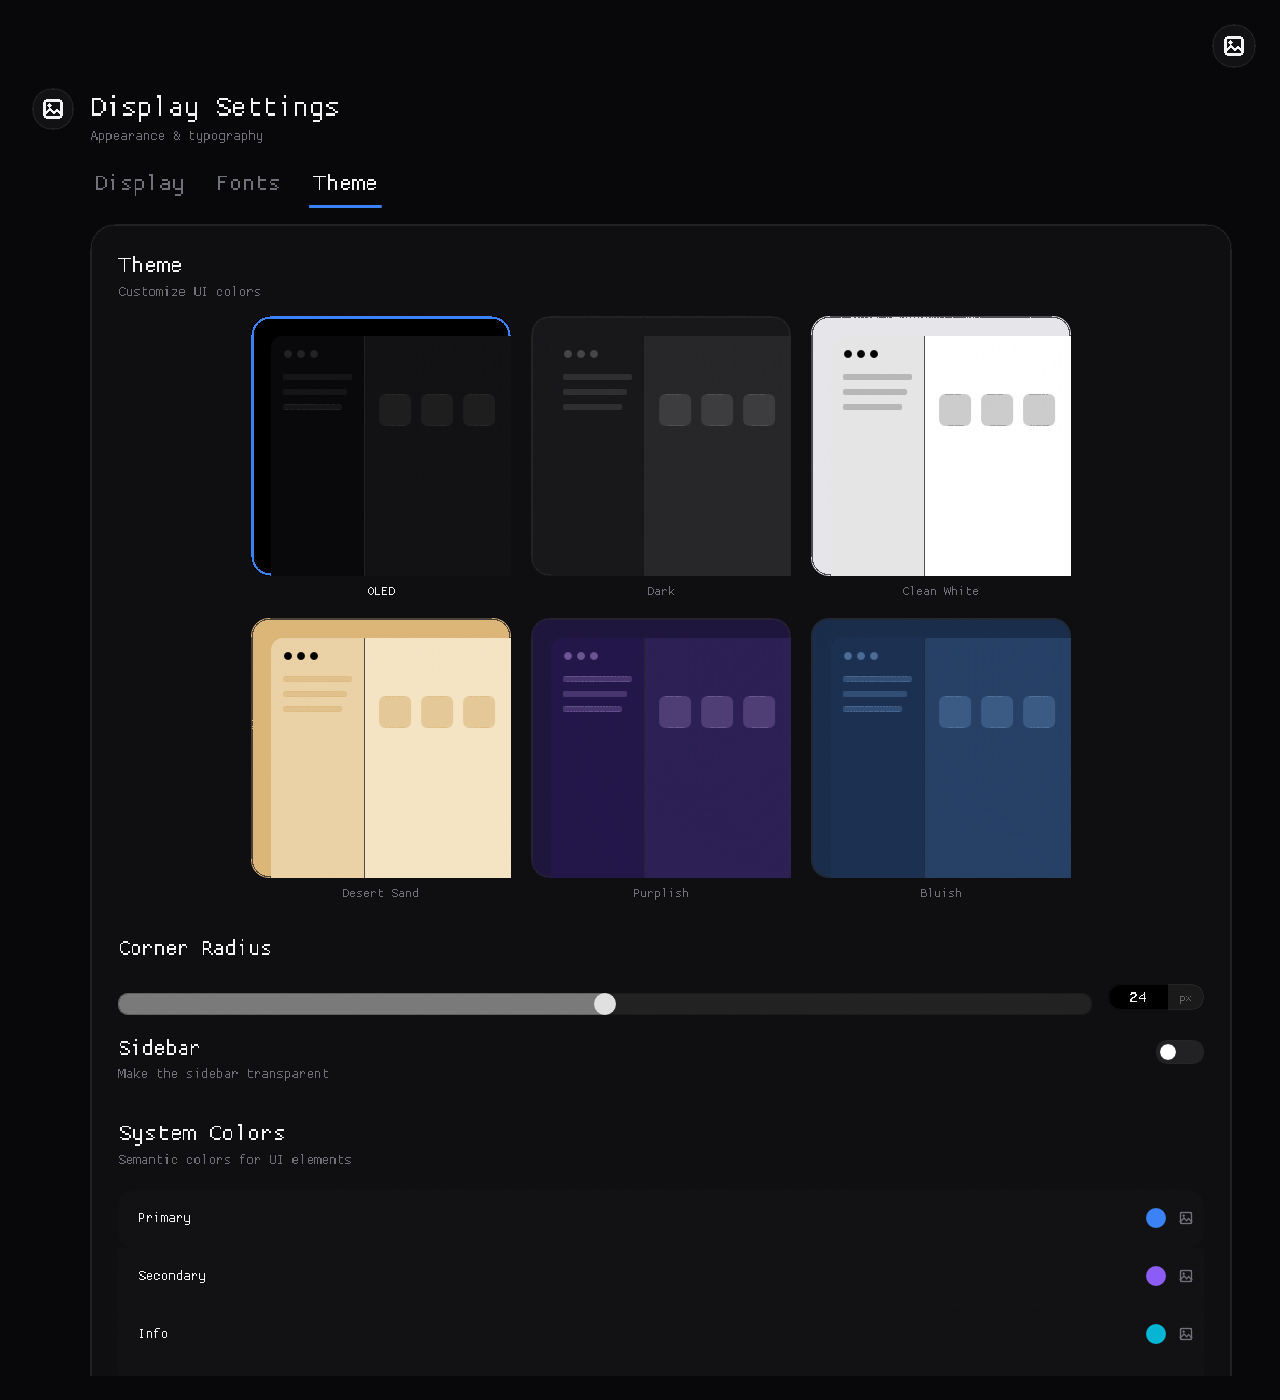
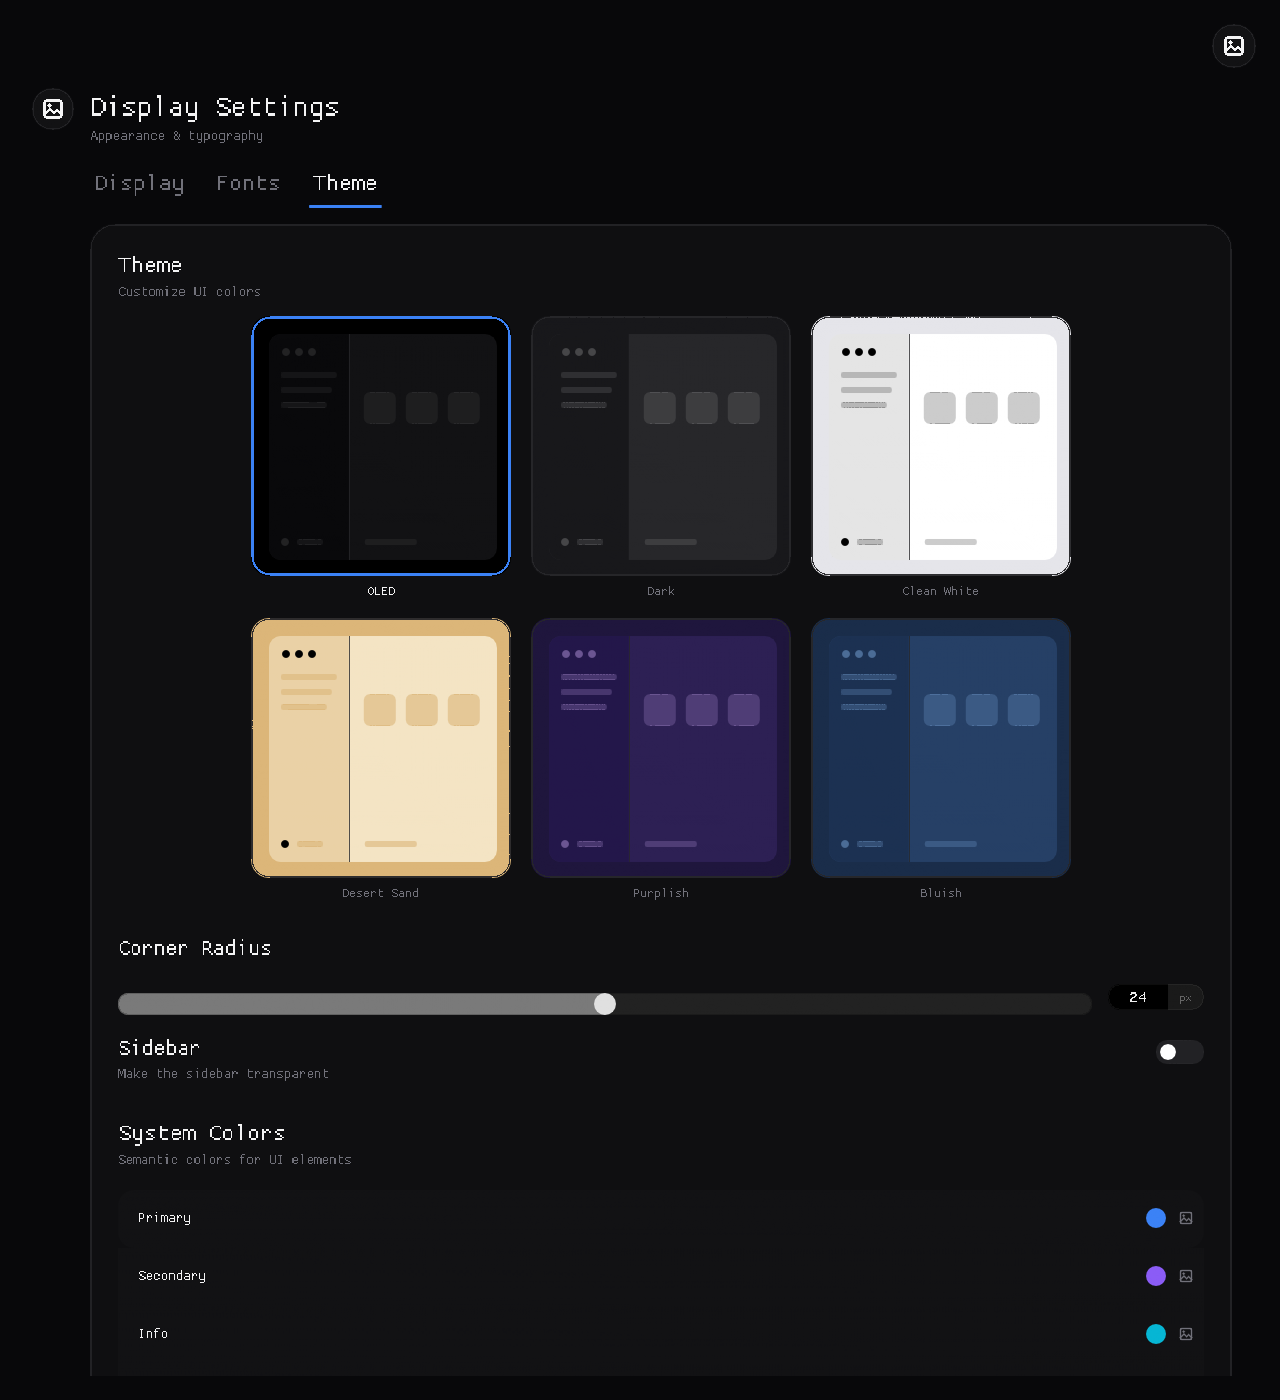
Contain theme previews inside rounded tiles

diff --git a/Engine/SlateUI/Interface/ControlCentrePanel/Source/ControlCentrePanel.cpp b/Engine/SlateUI/Interface/ControlCentrePanel/Source/ControlCentrePanel.cpp
@@ -660,13 +660,15 @@ void ControlCentrePanel::ThemePage(const PlaneExtent &Extent, ControlCentreOrdin
                       Ordinates.Theme == static_cast<ThemeSubject>(Ordinal) ? 2.0f : 1.0f, 18.0f, CornerAll);
         const PlaneExtent PreviewClip = Tile;
         Surface->Confine(PreviewClip);
-        const PlaneExtent Window = {Tile.LeastAlong + 20.0f, Tile.LeastAcross + 20.0f,
-                                    Tile.MostAlong + TileWidth * .10f, Tile.MostAcross + 20.0f};
-        Surface->Ground(Window, Preview.PreviewWindow, static_cast<float>(Ordinates.Radius) * .5f, CornerLeadingUpper);
+        const float InnerRadius = static_cast<float>(Ordinates.Radius) * .5f < 8.0f
+                                ? 8.0f : static_cast<float>(Ordinates.Radius) * .5f;
+        const PlaneExtent Window = {Tile.LeastAlong + 18.0f, Tile.LeastAcross + 18.0f,
+                                    Tile.MostAlong - 14.0f, Tile.MostAcross - 16.0f};
+        Surface->Ground(Window, Preview.PreviewWindow, InnerRadius, CornerAll);
         const float Sidebar = Window.SpanAlong() * .35f;
         Surface->Ground(Spanning(Window.LeastAlong, Window.LeastAcross, Sidebar, Window.SpanAcross()),
-                        Preview.PreviewSidebar, static_cast<float>(Ordinates.Radius) * .5f,
-                        CornerLeadingUpper);
+                        Preview.PreviewSidebar, InnerRadius,
+                        CornerLeadingUpper | CornerLeadingLower);
         Surface->Ground(Spanning(Window.LeastAlong + Sidebar, Window.LeastAcross, 1.0f, Window.SpanAcross()),
                         Theme.Edge, 0.0f, CornerNone);
         for (std::uint32_t Dot = 0u; Dot < 3u; ++Dot)
@@ -681,7 +683,15 @@ void ControlCentrePanel::ThemePage(const PlaneExtent &Extent, ControlCentreOrdin
             Surface->Ground(Spanning(Window.LeastAlong + Sidebar + 15.0f + 42.0f * static_cast<float>(Cell),
                                      Window.LeastAcross + 58.0f, 32.0f, 32.0f),
                             Preview.PreviewQuiet, static_cast<float>(Ordinates.Radius) * .25f, CornerAll);
+        Surface->Medallion(Window.LeastAlong + 16.0f, Window.MostAcross - 18.0f, 4.0f,
+                           Preview.PreviewStrong);
+        Surface->Ground(Spanning(Window.LeastAlong + 28.0f, Window.MostAcross - 21.0f, 26.0f, 6.0f),
+                        Preview.PreviewQuiet, 3.0f, CornerAll);
+        Surface->Ground(Spanning(Window.LeastAlong + Sidebar + 16.0f, Window.MostAcross - 21.0f,
+                                 52.0f, 6.0f), Preview.PreviewQuiet, 3.0f, CornerAll);
         Surface->Release();
+        Surface->Edge(Tile, Ordinates.Theme == static_cast<ThemeSubject>(Ordinal) ? Accent : Theme.Edge,
+                      Ordinates.Theme == static_cast<ThemeSubject>(Ordinal) ? 2.0f : 1.0f, 18.0f, CornerAll);
         const PlaneExtent TileButton = Spanning(Tile.LeastAlong, Tile.LeastAcross, Tile.SpanAlong(),
                                                 Tile.SpanAcross() + 28.0f);
         Surface->TextRun(CentreText(*Surface, TileButton, Preview.Caption, 13.0f), Tile.MostAcross + 8.0f,
